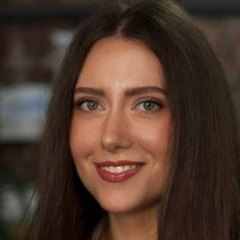
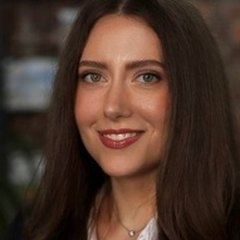
аватарки на 30% більше (44→57px) + ширший кадр
CSS .avatar 44→57px. Перекроп фото — face_frac знижено з 60-66% до 55-57%, обличчя розташоване на 38% від верху (правило третин), завдяки чому під ним попадають плечі замість тісного крупного плану голови.

diff --git a/index.html b/index.html
@@ -159,7 +159,7 @@ a { color: inherit; text-decoration: none; }
 
 .contact-card-inner { display: flex; align-items: center; gap: 14px; }
 .avatar {
-  width: 44px; height: 44px; flex-shrink: 0;
+  width: 57px; height: 57px; flex-shrink: 0;
   background: var(--bg-elev);
   border: 1px solid var(--line);
   border-radius: 50%;
